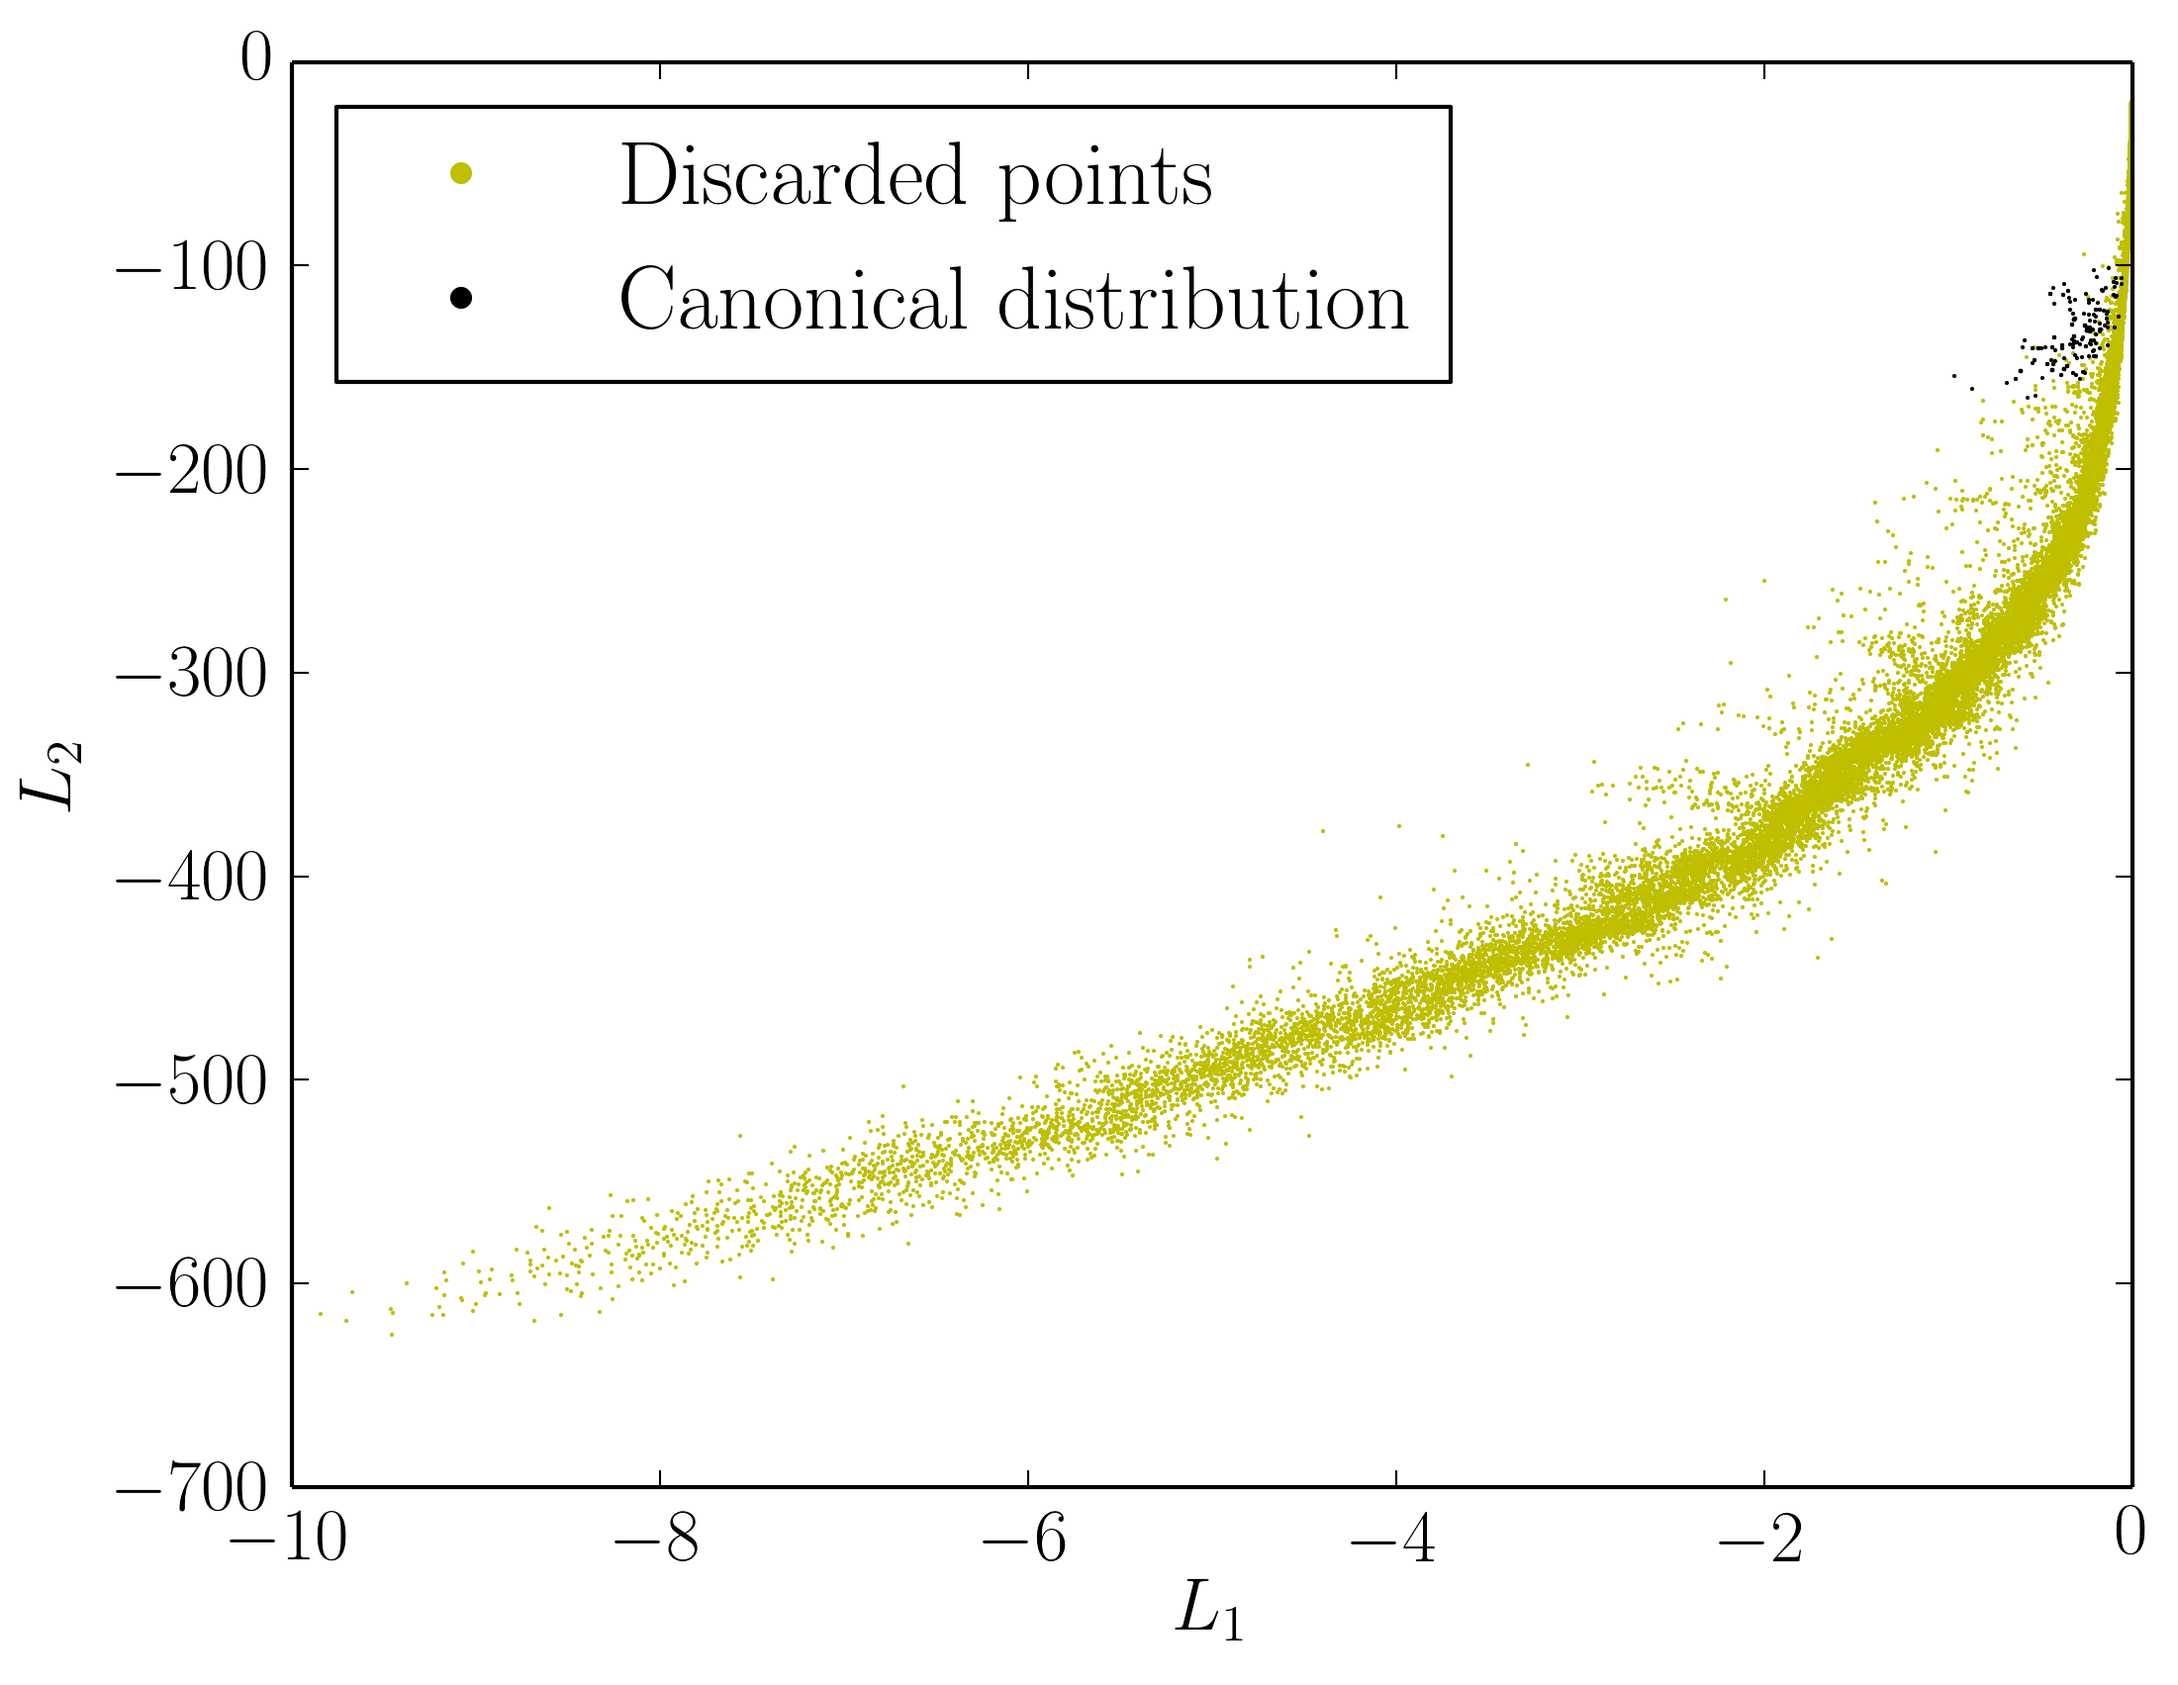
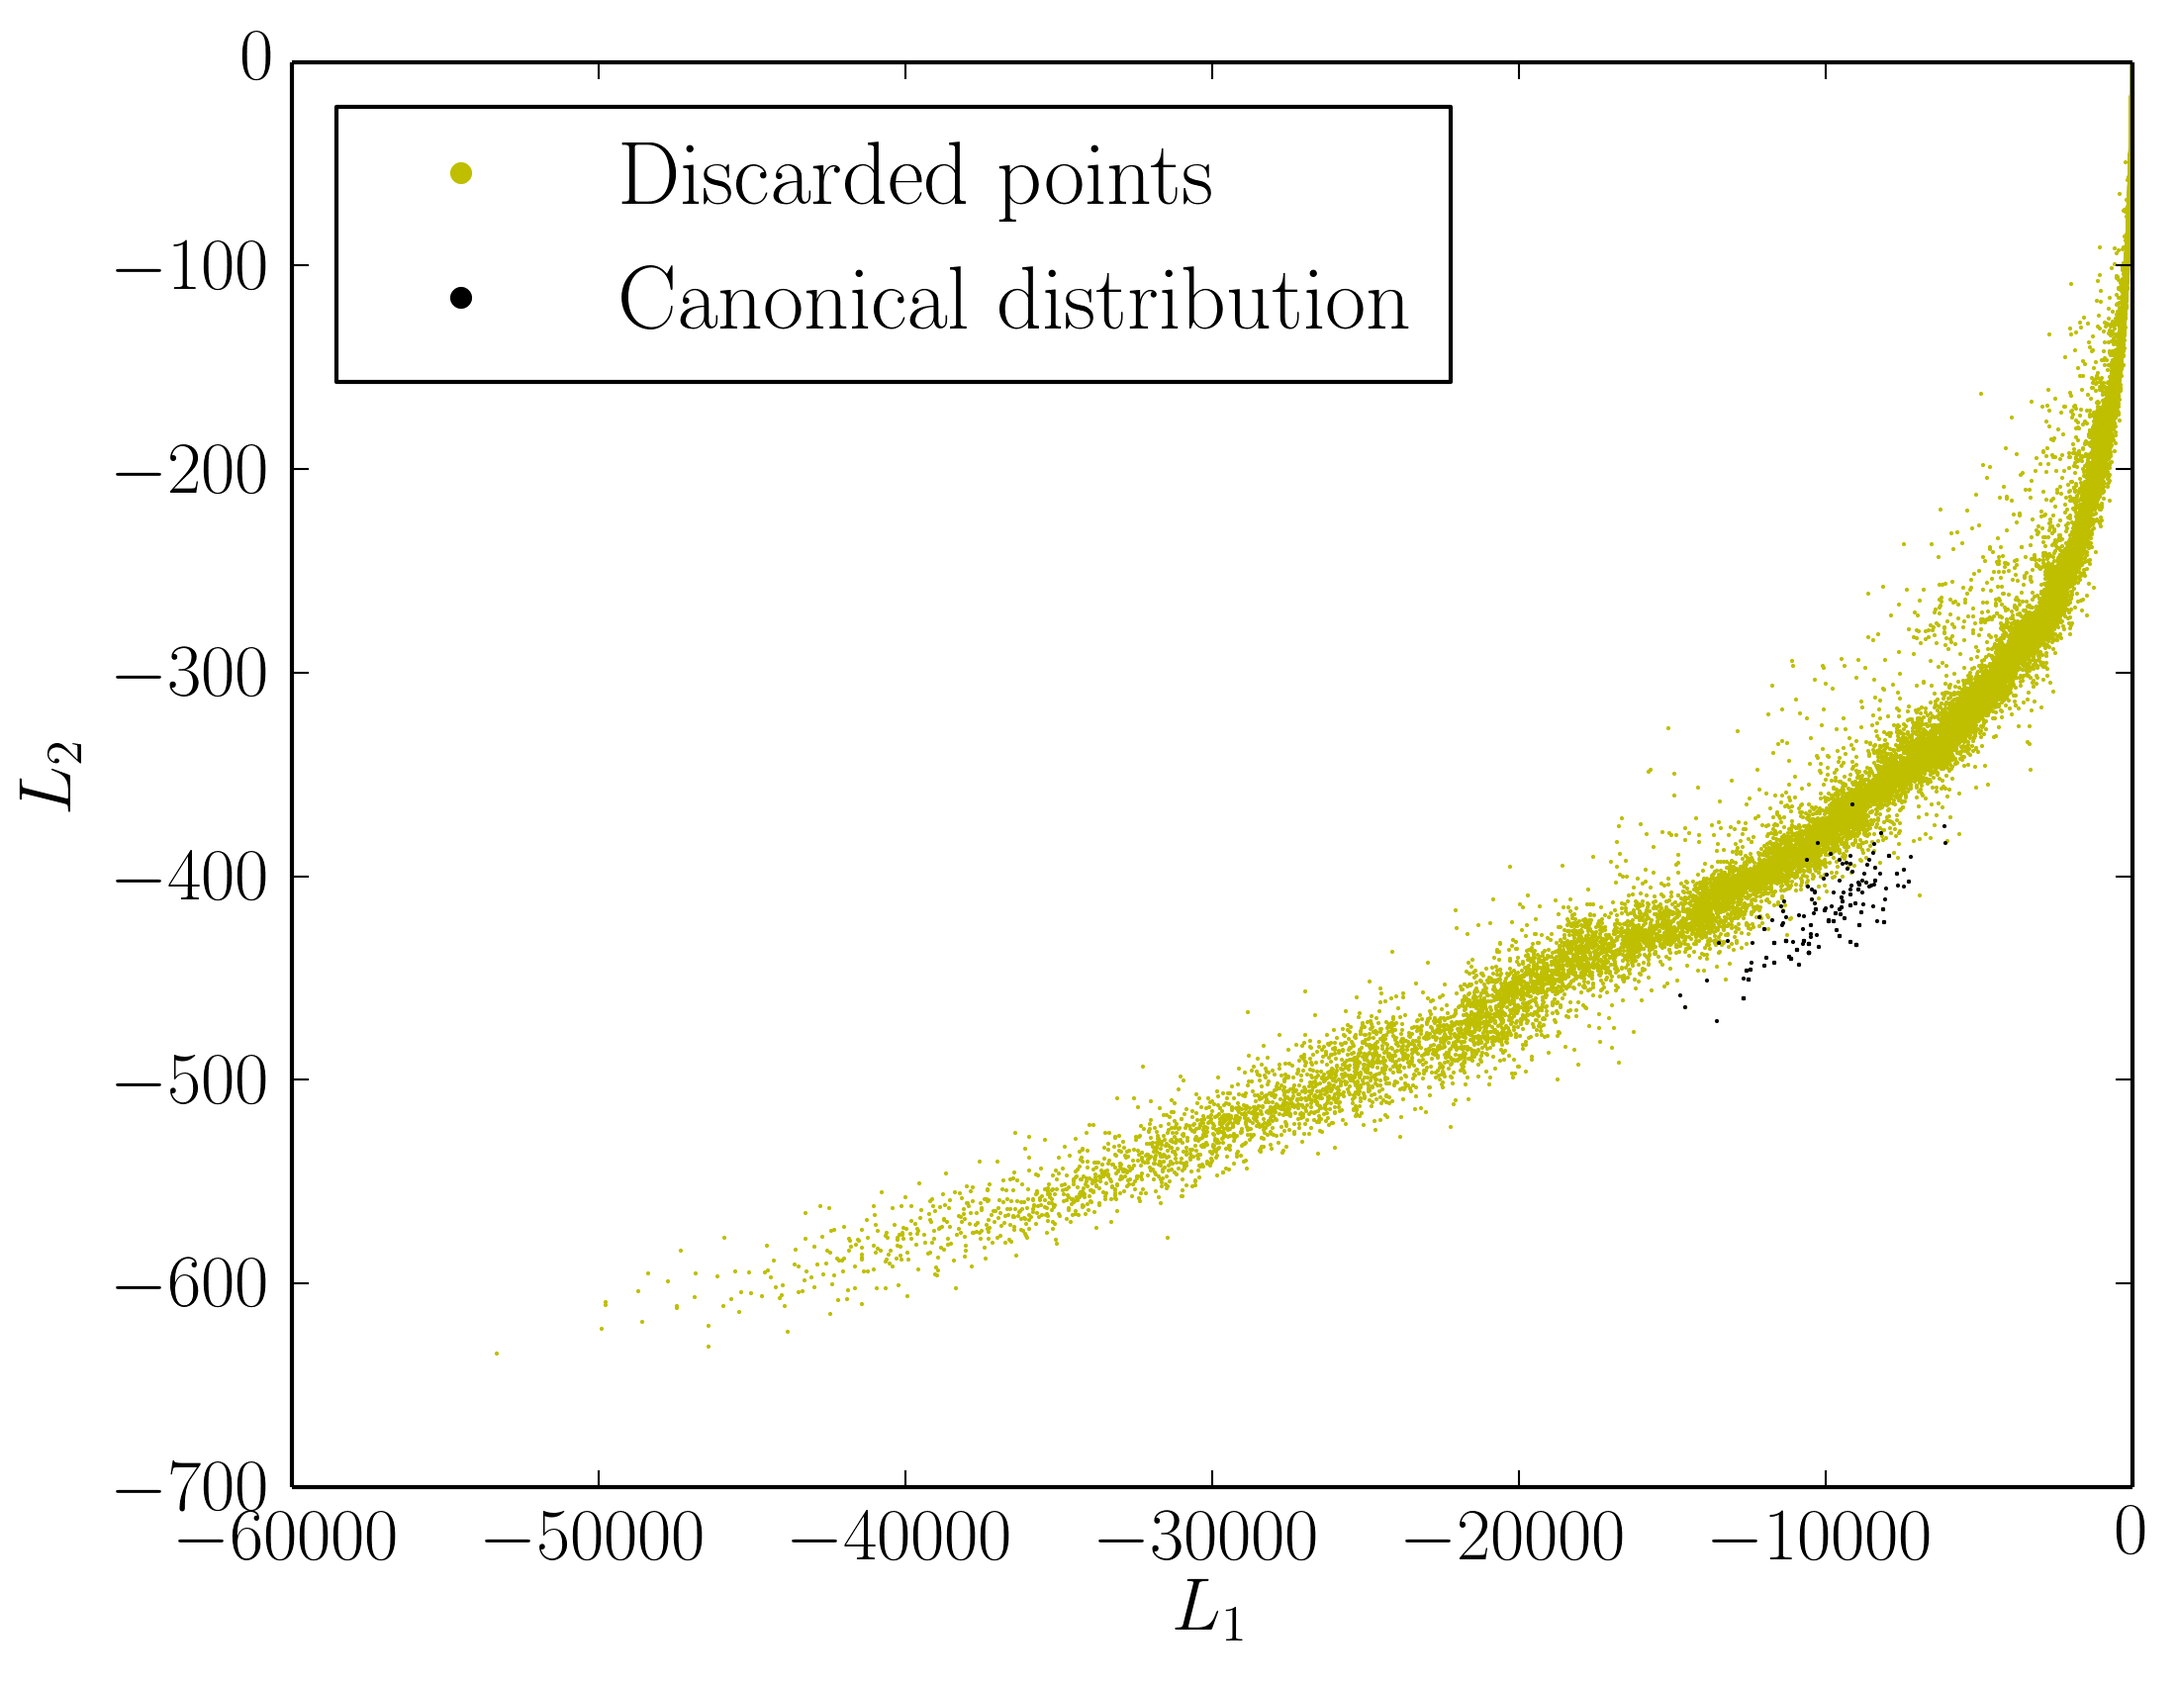
Better temperature choice to show the canonical dist

diff --git a/Paper/ms.tex b/Paper/ms.tex
@@ -384,7 +384,9 @@ test problem.\label{fig:truth}}
 \begin{figure}
 \centering
 \includegraphics[scale=0.75]{figures/output.png}
-\caption{\label{fig:output}}
+\caption{The sequence of discarded particles (yellow) and
+points representing the canonical distribution at temperatures
+$(T_1, T_2) = (200, 100)$ (black).\label{fig:output}}
 \end{figure}
 
 

diff --git a/Code/C++/showresults.py b/Code/C++/showresults.py
@@ -7,7 +7,7 @@ rc("font", size=18, family="serif", serif="Computer Sans")
 rc("text", usetex=True)
 
 # Temperatures
-T1, T2 = 1., 1.
+T1, T2 = 200., 100.
 
 # First calculate things about the scalars (e.g. the normalising constant)
 output = loadtxt('sample_info.txt')
